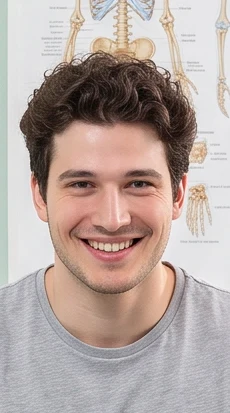
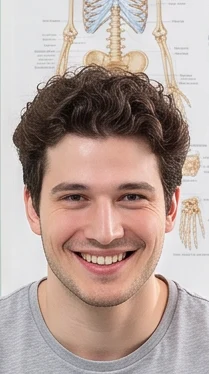
Gros plan du visage : la tete entiere, cheveux compris
Le cadre descendait jusqu'a la poitrine ; il tient maintenant des cheveux
au cou. Et sur le telephone, la carte collee en haut couvrait le haut du
gros plan apres un defilement : la page se replace a l'ouverture.

diff --git a/visuel/prototype/index.html b/visuel/prototype/index.html
@@ -383,6 +383,13 @@ function ouvrirGrosPlan(g, sansAnim){
   scene.appendChild(el);
   if (!sansAnim){ void el.offsetWidth; poser(0, 0, 100, 100); }
   zoom = {g, el, svg: el.querySelector("svg")};
+  // Le haut du gros plan doit se voir. Sur le telephone, la scene depasse
+  // l'ecran : apres un defilement, la carte collee en haut couvrait le haut de
+  // l'image -- les cheveux de Mark (Jacques, 6 oct. : « voir sa tete au
+  // complet »). On ramene le haut de la scene juste sous la carte.
+  const haut = document.querySelector(".haut").getBoundingClientRect().bottom;
+  const ecart = scene.getBoundingClientRect().top - haut;
+  if (ecart < 0) window.scrollBy({top: ecart, behavior: sansAnim ? "auto" : "smooth"});
   el.querySelector(".fermer").addEventListener("click", ev => {
     ev.stopPropagation(); fermerGrosPlan(); if (!verrou) effacer();
   });

diff --git a/visuel/prototype/scene-arztpraxis.js b/visuel/prototype/scene-arztpraxis.js
@@ -1991,10 +1991,10 @@ window.SCENE = {
     9
    ],
    "cadre": [
-    42.5,
-    28.5,
-    15,
-    15
+    43,
+    28,
+    13.6,
+    13.6
    ],
    "formes": {
     "kopf": [

diff --git a/retours/journal-retours.md b/retours/journal-retours.md
@@ -7632,3 +7632,9 @@ scene arrive dans la seance du jour.
   la classe (titre, questions) a quitte la page pour klassenzimmer.points.json,
   et la classe a ete reverifiee. Mots absents du corpus, donc absents de la
   scene : Skelett, Stethoskop, Liege, Kittel, Tuerklinke, Daumen, Knoechel.
+  Suite : dans le gros plan du visage, Jacques veut « voir sa tete au complet
+  avec ses cheveux » ; le cadre descendait jusqu'a la poitrine. Cadre resserre
+  sur la tete (des cheveux au cou, visage plus grand). Et sur le telephone,
+  apres un defilement, la carte collee en haut couvrait le haut de l'image --
+  les cheveux : a l'ouverture d'un gros plan, la page se replace pour que son
+  haut se voie sous la carte. Vaut pour tous les gros plans, classe comprise.
